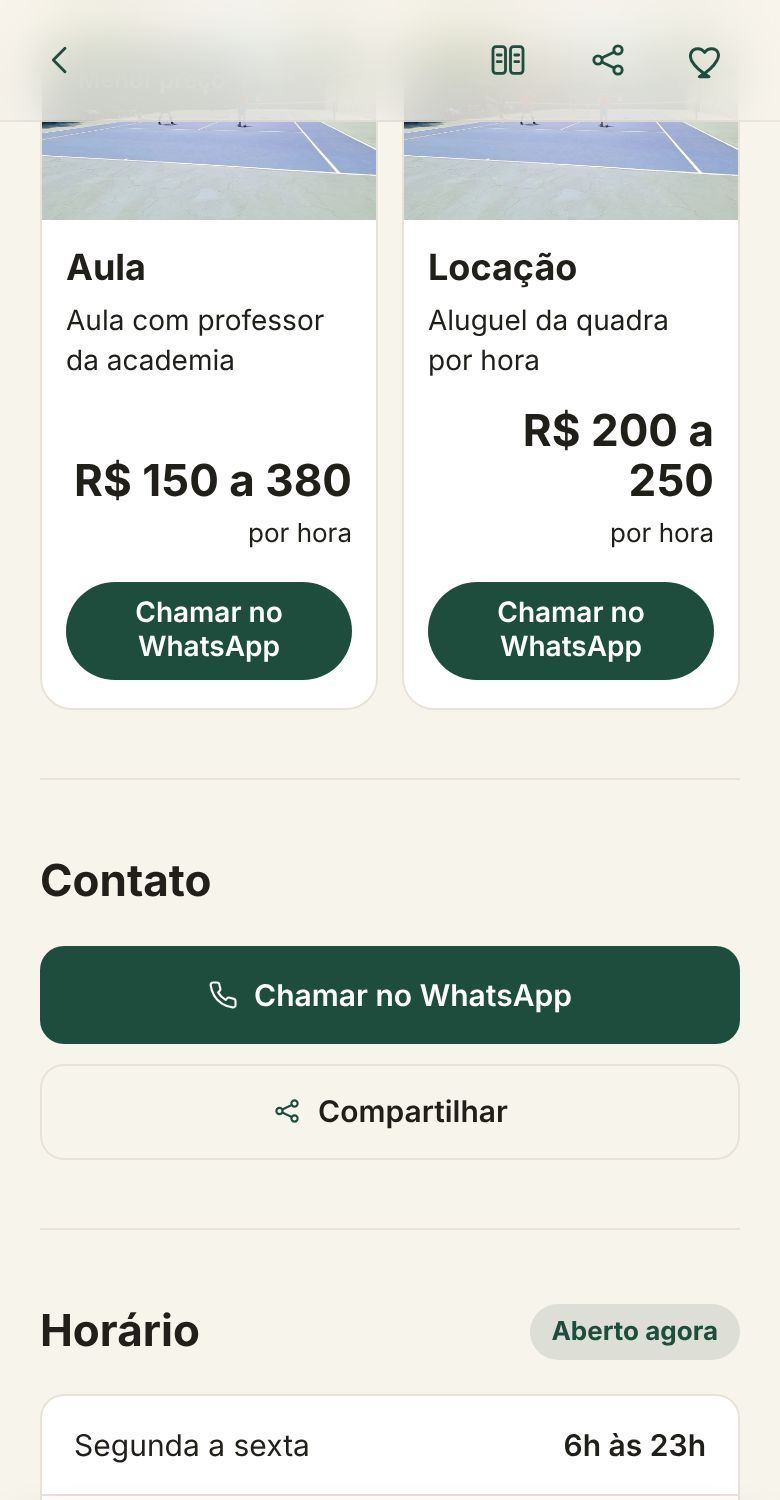
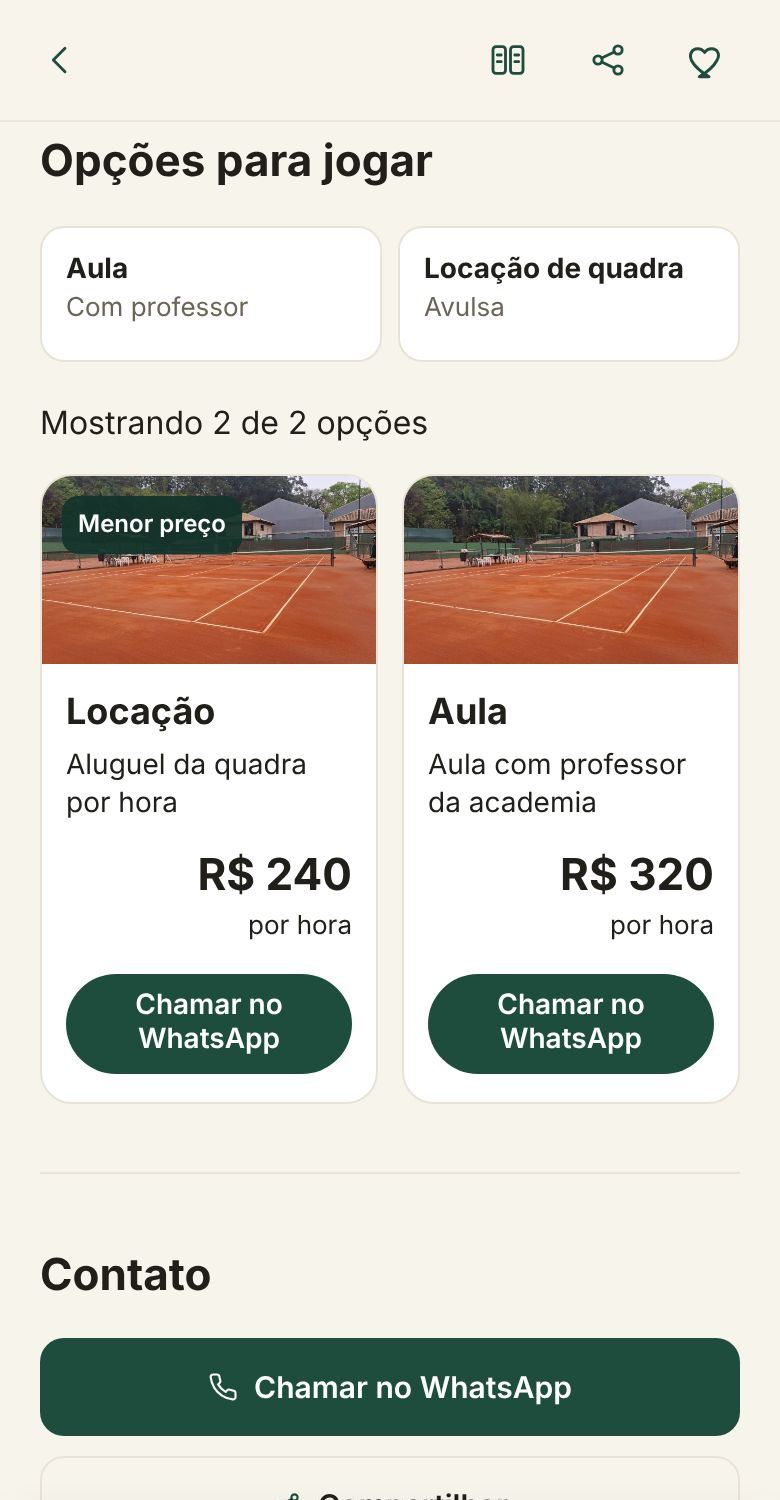
Pré-lançamento: as telas da ficha com a MesqTenis (regra 334)
Claude-Session: https://claude.ai/code/session_013HDjzHqt33iK4cjeBdkH6G

diff --git a/GUIATENNIS-CONTEXTO.md b/GUIATENNIS-CONTEXTO.md
@@ -485,7 +485,7 @@ opções da ficha e chat; "só o que é novo": o Breno lembrou que preço, compa
 (`PRE_MAIS`), "Para academias" com o GuiaTennis Parceiros (a tela, o que ganha com o plano de cada item, as vagas de
 Fundadora, "Como entrar" e o código), as perguntas `PRE_PERGUNTAS` e "Nos vemos domingo, às 18h."). As telas foram
 tiradas do site com o banco de verdade, só lendo (o ambiente do Claude liberou eultezheqwmxyakvgyjy.supabase.co em
-26/11), com a letra Roboto; a ficha mostrada é a Reinaldo Junqueira Tennis e a busca, a Morumbi Tennis; revisão de marketing, design e gramática: "Grátis para quem joga · Sem cadastro · Sem taxa" no alto, o plano de cada item como etiqueta, sem o "R$ 0 para quem joga" nos números (repetia o "Grátis" logo acima); "Peça o seu pelo WhatsApp" já com a mensagem escrita (`PRE_PEDIDO_DE_CODIGO`: "Olá! Sou responsável pela academia [nome da academia] e gostaria de receber o código de acesso…"); sem repetições (a data só no alto e no fecho, "Outras novidades", 3 perguntas: cobra alguma coisa, avaliações de verdade, precisa baixar aplicativo), o dourado dos títulos pequenos em #7E6020 (contraste de leitura) e texto formal ("em um lugar só", "A nova ficha da academia"); o código de acesso (no
+26/11), com a letra Roboto; a ficha mostrada é a MesqTenis (pedido do Breno) e a busca, a Morumbi Tennis; revisão de marketing, design e gramática: "Grátis para quem joga · Sem cadastro · Sem taxa" no alto, o plano de cada item como etiqueta, sem o "R$ 0 para quem joga" nos números (repetia o "Grátis" logo acima); "Peça o seu pelo WhatsApp" já com a mensagem escrita (`PRE_PEDIDO_DE_CODIGO`: "Olá! Sou responsável pela academia [nome da academia] e gostaria de receber o código de acesso…"); sem repetições (a data só no alto e no fecho, "Outras novidades", 3 perguntas: cobra alguma coisa, avaliações de verdade, precisa baixar aplicativo), o dourado dos títulos pequenos em #7E6020 (contraste de leitura) e texto formal ("em um lugar só", "A nova ficha da academia"); o código de acesso (no
 link `?acesso=`, ou digitado na página; só a conta dele fica no código, `ACESSO_ANTECIPADO_CONTA`; o código
 está na conversa com o Breno) libera o site inteiro no navegador; admin logado entra direto; às 18h abre
 sozinho. O Breno convida as academias de quinta a sábado (roteiro, "Pré-lançamento"); depois de domingo, a
